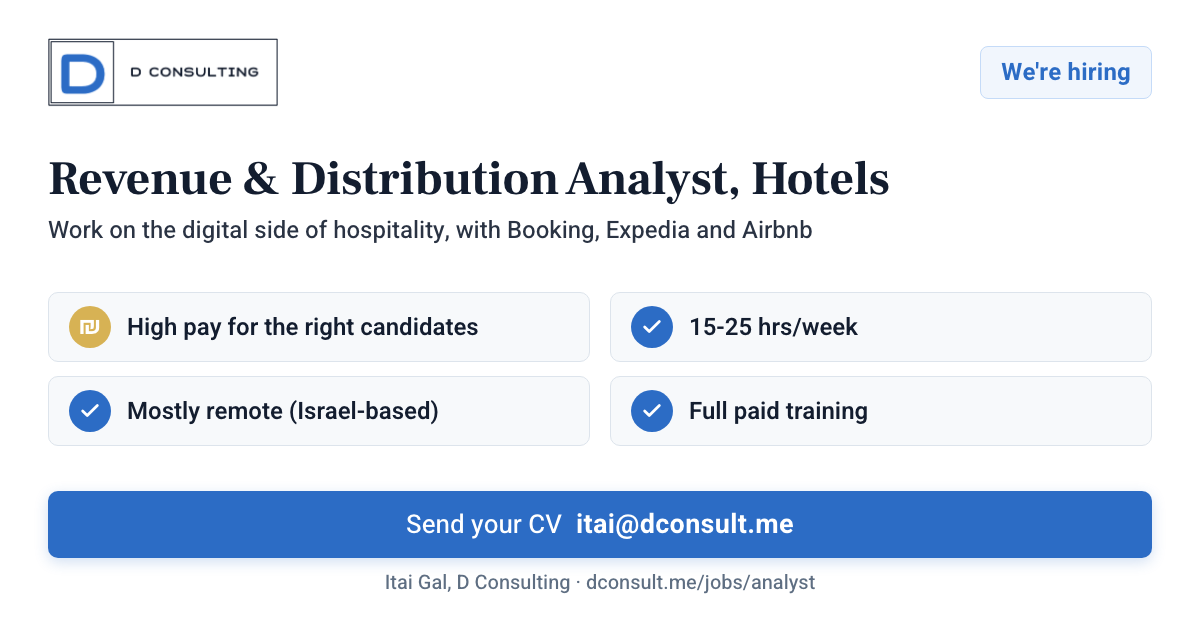
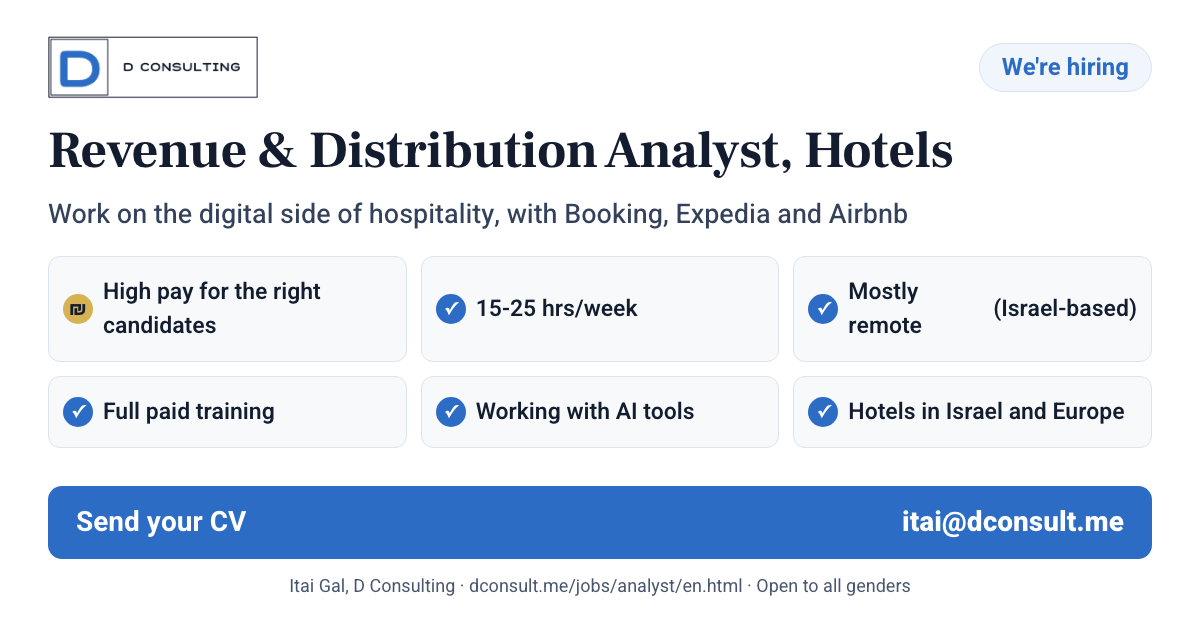
Job page: link-preview images in the square-post design

diff --git a/jobs/analyst/en.html b/jobs/analyst/en.html
@@ -15,9 +15,9 @@
   <meta property="og:url" content="https://dconsult.me/jobs/analyst/en.html">
   <meta property="og:title" content="We're hiring: Revenue &amp; Distribution Analyst, Hotels | D Consulting">
   <meta property="og:description" content="High pay for the right candidates · 15-25 hrs/week · Mostly remote (Israel-based) · Full paid training">
-  <meta property="og:image" content="https://dconsult.me/jobs/analyst/og-en.png">
+  <meta property="og:image" content="https://dconsult.me/jobs/analyst/og-en.png?v=2">
   <meta property="og:image:width" content="1200">
-  <meta property="og:image:height" content="627">
+  <meta property="og:image:height" content="630">
   <meta name="twitter:card" content="summary_large_image">
   <link rel="preconnect" href="https://fonts.googleapis.com">
   <link rel="preconnect" href="https://fonts.gstatic.com" crossorigin>

diff --git a/jobs/analyst/index.html b/jobs/analyst/index.html
@@ -15,7 +15,7 @@
   <meta property="og:url" content="https://dconsult.me/jobs/analyst/">
   <meta property="og:title" content="דרוש/ה אנליסט/ית ניהול תשואה והפצה למלונות | D Consulting">
   <meta property="og:description" content="שכר גבוה למתאימים · 15-25 שעות בשבוע · רוב העבודה מהבית · הכשרה מלאה בשכר">
-  <meta property="og:image" content="https://dconsult.me/jobs/analyst/og.png">
+  <meta property="og:image" content="https://dconsult.me/jobs/analyst/og.png?v=2">
   <meta property="og:image:width" content="1200">
   <meta property="og:image:height" content="630">
   <meta name="twitter:card" content="summary_large_image">
